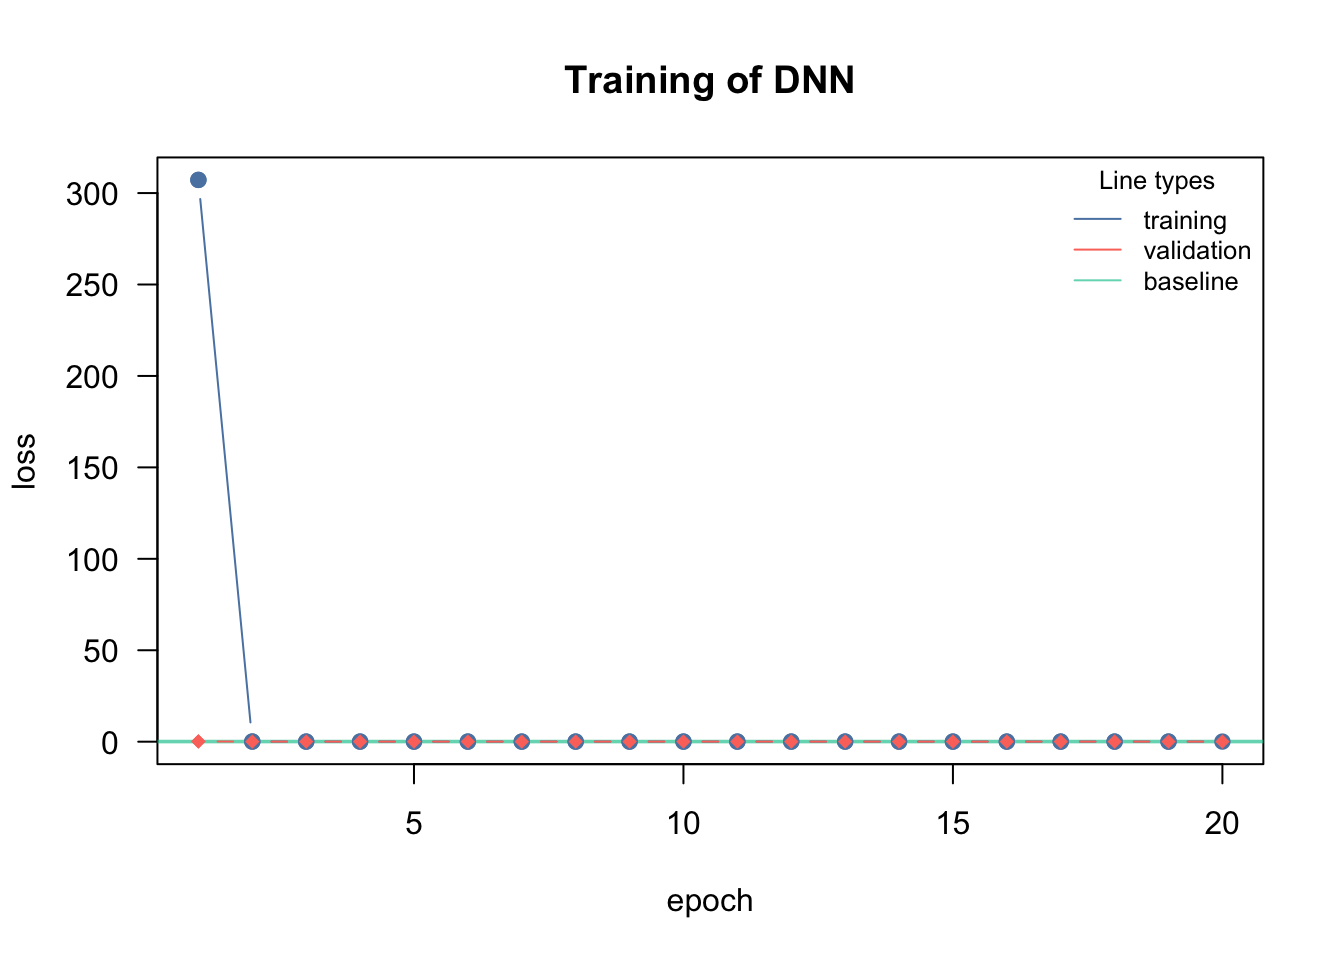
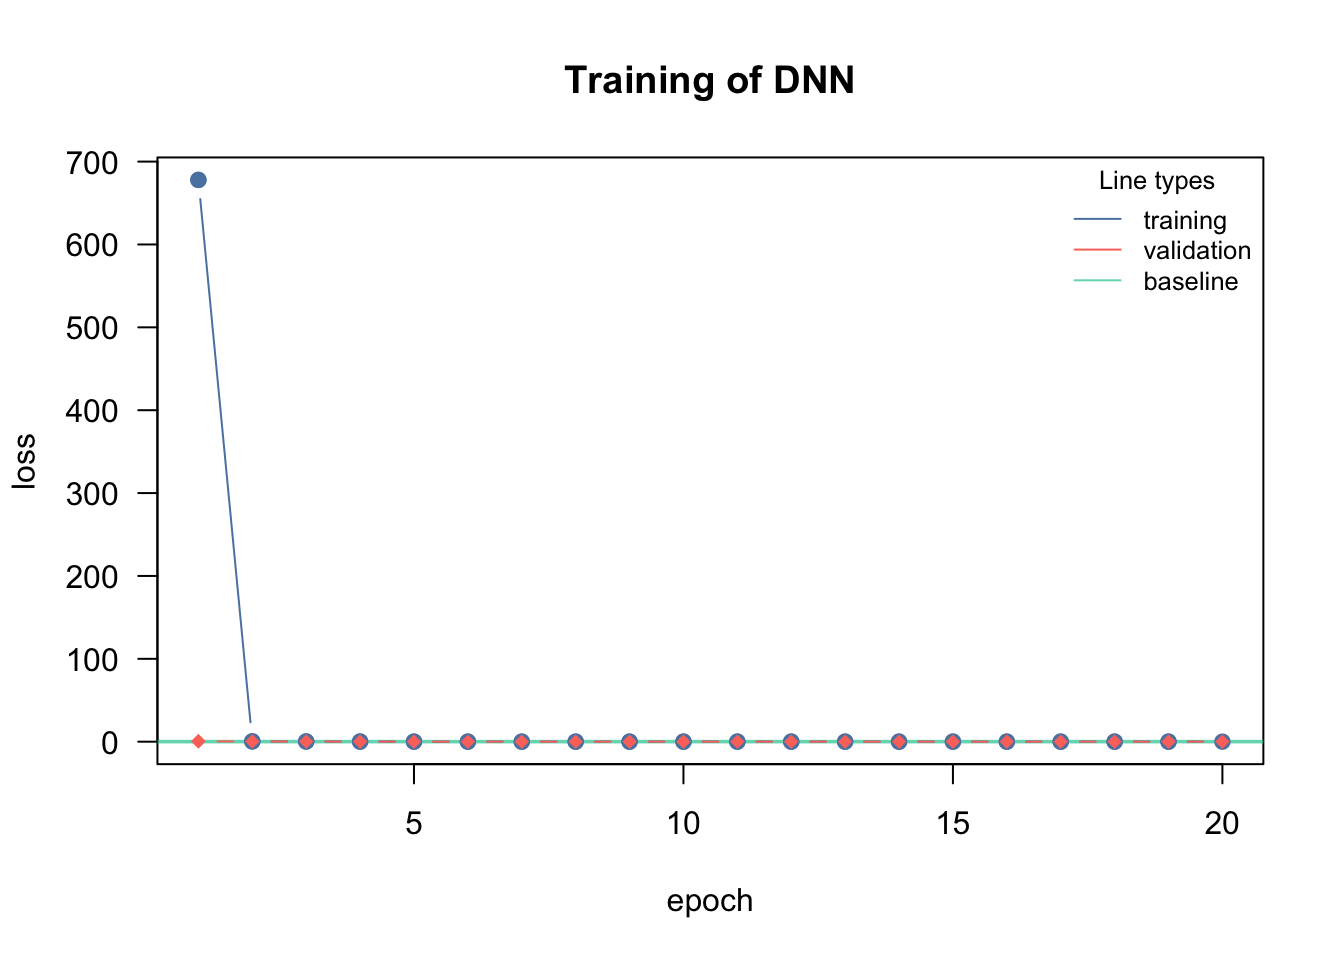
Week 3 - Assignment 3: Model Comparison Australia Electricity Demand

diff --git a/coursework/courses/stat-6393v/week-03/assignment-03/index.html b/coursework/courses/stat-6393v/week-03/assignment-03/index.html
@@ -299,7 +299,7 @@ Answer 1 - Fitting models
 <span id="cb6-6"><a href="#cb6-6" aria-hidden="true" tabindex="-1"></a>        <span class="at">epochs =</span> <span class="dv">20</span>L, <span class="at">hidden =</span> <span class="fu">c</span>(<span class="dv">30</span>L, <span class="dv">30</span>L),</span>
 <span id="cb6-7"><a href="#cb6-7" aria-hidden="true" tabindex="-1"></a>        <span class="at">activation =</span> <span class="st">"relu"</span>, <span class="at">verbose =</span> <span class="cn">TRUE</span>, <span class="at">plot =</span> <span class="cn">TRUE</span>)</span></code><button title="Copy to Clipboard" class="code-copy-button"><i class="bi"></i></button></pre></div>
 <div class="cell-output cell-output-stdout">
-<pre><code>Loss at epoch 1: training: 307.195, validation: 0.138, lr: 0.01000</code></pre>
+<pre><code>Loss at epoch 1: training: 677.901, validation: 0.478, lr: 0.01000</code></pre>
 </div>
 <div class="cell-output-display">
 <div>
@@ -309,25 +309,25 @@ Answer 1 - Fitting models
 </div>
 </div>
 <div class="cell-output cell-output-stdout">
-<pre><code>Loss at epoch 2: training: 0.080, validation: 0.047, lr: 0.01000
-Loss at epoch 3: training: 0.049, validation: 0.053, lr: 0.01000
-Loss at epoch 4: training: 0.059, validation: 0.046, lr: 0.01000
-Loss at epoch 5: training: 0.046, validation: 0.047, lr: 0.01000
-Loss at epoch 6: training: 0.047, validation: 0.050, lr: 0.01000
-Loss at epoch 7: training: 0.052, validation: 0.046, lr: 0.01000
-Loss at epoch 8: training: 0.046, validation: 0.050, lr: 0.01000
-Loss at epoch 9: training: 0.054, validation: 0.046, lr: 0.01000
-Loss at epoch 10: training: 0.054, validation: 0.065, lr: 0.01000
-Loss at epoch 11: training: 0.050, validation: 0.056, lr: 0.01000
-Loss at epoch 12: training: 0.053, validation: 0.047, lr: 0.01000
-Loss at epoch 13: training: 0.049, validation: 0.055, lr: 0.01000
-Loss at epoch 14: training: 0.048, validation: 0.047, lr: 0.01000
-Loss at epoch 15: training: 0.049, validation: 0.046, lr: 0.01000
-Loss at epoch 16: training: 0.046, validation: 0.046, lr: 0.01000
+<pre><code>Loss at epoch 2: training: 0.374, validation: 0.284, lr: 0.01000
+Loss at epoch 3: training: 0.239, validation: 0.186, lr: 0.01000
+Loss at epoch 4: training: 0.144, validation: 0.094, lr: 0.01000
+Loss at epoch 5: training: 0.065, validation: 0.052, lr: 0.01000
+Loss at epoch 6: training: 0.048, validation: 0.048, lr: 0.01000
+Loss at epoch 7: training: 0.046, validation: 0.047, lr: 0.01000
+Loss at epoch 8: training: 0.045, validation: 0.047, lr: 0.01000
+Loss at epoch 9: training: 0.045, validation: 0.046, lr: 0.01000
+Loss at epoch 10: training: 0.045, validation: 0.046, lr: 0.01000
+Loss at epoch 11: training: 0.045, validation: 0.046, lr: 0.01000
+Loss at epoch 12: training: 0.045, validation: 0.046, lr: 0.01000
+Loss at epoch 13: training: 0.045, validation: 0.046, lr: 0.01000
+Loss at epoch 14: training: 0.045, validation: 0.046, lr: 0.01000
+Loss at epoch 15: training: 0.045, validation: 0.046, lr: 0.01000
+Loss at epoch 16: training: 0.045, validation: 0.046, lr: 0.01000
 Loss at epoch 17: training: 0.045, validation: 0.046, lr: 0.01000
-Loss at epoch 18: training: 0.052, validation: 0.056, lr: 0.01000
-Loss at epoch 19: training: 0.048, validation: 0.047, lr: 0.01000
-Loss at epoch 20: training: 0.057, validation: 0.046, lr: 0.01000</code></pre>
+Loss at epoch 18: training: 0.045, validation: 0.046, lr: 0.01000
+Loss at epoch 19: training: 0.045, validation: 0.046, lr: 0.01000
+Loss at epoch 20: training: 0.045, validation: 0.046, lr: 0.01000</code></pre>
 </div>
 </div>
 <p>The model’s loss falls steeply within as few as the first 10 epochs, so it stands to reason that we do not need that many epochs.</p>
@@ -381,7 +381,7 @@ Answer 2 - Getting Predictions
 <span id="cb13-4"><a href="#cb13-4" aria-hidden="true" tabindex="-1"></a></span>
 <span id="cb13-5"><a href="#cb13-5" aria-hidden="true" tabindex="-1"></a><span class="fu">str</span>(qr_12)</span></code><button title="Copy to Clipboard" class="code-copy-button"><i class="bi"></i></button></pre></div>
 <div class="cell-output cell-output-stdout">
-<pre><code> num [1:279, 1:2] 0.656 0.656 0.656 0.656 0.656 ...</code></pre>
+<pre><code> num [1:279, 1:2] 0.653 0.653 0.653 0.653 0.653 ...</code></pre>
 </div>
 <div class="sourceCode cell-code" id="cb15"><pre class="sourceCode r code-with-copy"><code class="sourceCode r"><span id="cb15-1"><a href="#cb15-1" aria-hidden="true" tabindex="-1"></a><span class="fu">str</span>(spqr_12)</span></code><button title="Copy to Clipboard" class="code-copy-button"><i class="bi"></i></button></pre></div>
 <div class="cell-output cell-output-stdout">
@@ -411,12 +411,12 @@ Answer 3 - Getting Quantiles
 <div class="sourceCode cell-code" id="cb17"><pre class="sourceCode r code-with-copy"><code class="sourceCode r"><span id="cb17-1"><a href="#cb17-1" aria-hidden="true" tabindex="-1"></a>qr_12_50 <span class="ot">&lt;-</span> qr_12[,<span class="dv">1</span>]</span>
 <span id="cb17-2"><a href="#cb17-2" aria-hidden="true" tabindex="-1"></a><span class="fu">str</span>(qr_12_50)</span></code><button title="Copy to Clipboard" class="code-copy-button"><i class="bi"></i></button></pre></div>
 <div class="cell-output cell-output-stdout">
-<pre><code> num [1:279] 0.656 0.656 0.656 0.656 0.656 ...</code></pre>
+<pre><code> num [1:279] 0.653 0.653 0.653 0.653 0.653 ...</code></pre>
 </div>
 <div class="sourceCode cell-code" id="cb19"><pre class="sourceCode r code-with-copy"><code class="sourceCode r"><span id="cb19-1"><a href="#cb19-1" aria-hidden="true" tabindex="-1"></a>qr_12_95 <span class="ot">&lt;-</span> qr_12[,<span class="dv">2</span>]</span>
 <span id="cb19-2"><a href="#cb19-2" aria-hidden="true" tabindex="-1"></a><span class="fu">str</span>(qr_12_95)</span></code><button title="Copy to Clipboard" class="code-copy-button"><i class="bi"></i></button></pre></div>
 <div class="cell-output cell-output-stdout">
-<pre><code> num [1:279] 0.875 0.875 0.875 0.875 0.875 ...</code></pre>
+<pre><code> num [1:279] 0.837 0.837 0.837 0.837 0.837 ...</code></pre>
 </div>
 </div>
 <p>50% and 95% quantiles for SPQR:</p>
@@ -509,7 +509,7 @@ alternative hypothesis: true location shift is not equal to 0</code></pre>
     Wilcoxon signed rank test with continuity correction
 
 data:  qr_12_50 and spqr_12_50
-V = 38728, p-value &lt; 2.2e-16
+V = 38703, p-value &lt; 2.2e-16
 alternative hypothesis: true location shift is not equal to 0</code></pre>
 </div>
 <div class="sourceCode cell-code" id="cb36"><pre class="sourceCode r code-with-copy"><code class="sourceCode r"><span id="cb36-1"><a href="#cb36-1" aria-hidden="true" tabindex="-1"></a><span class="co"># QR - SPQR Dec 95</span></span>
